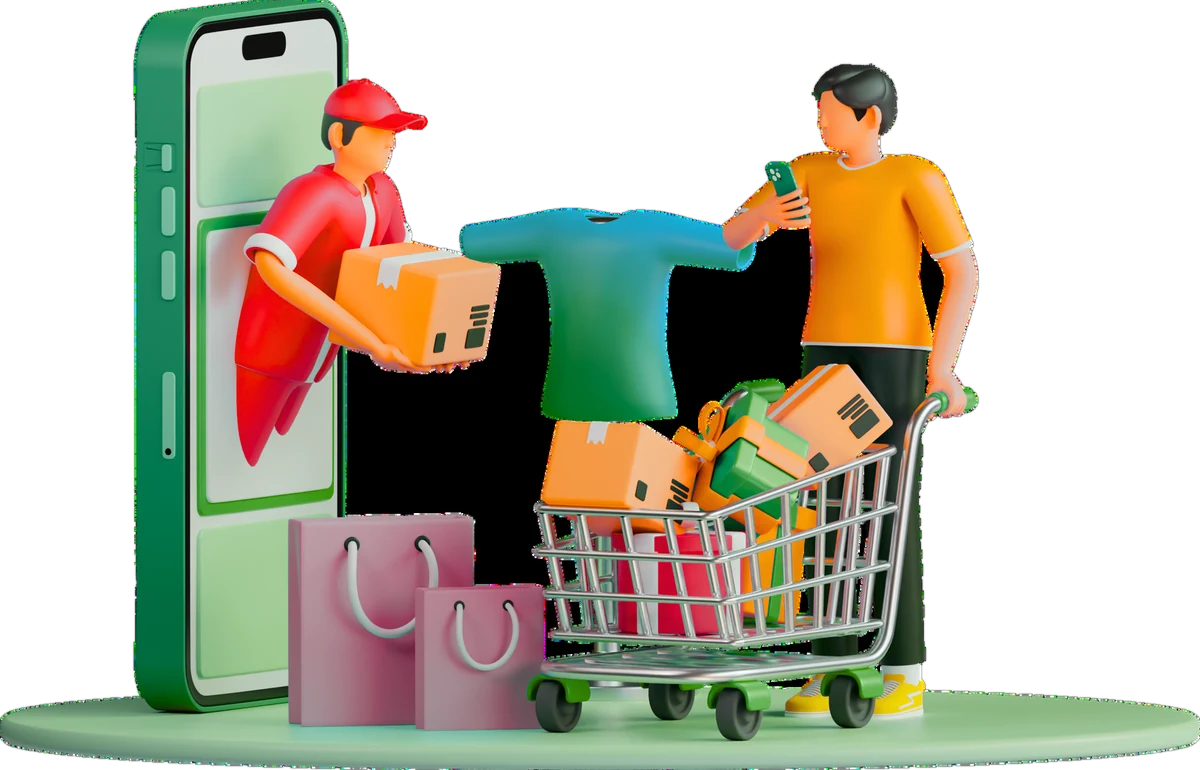
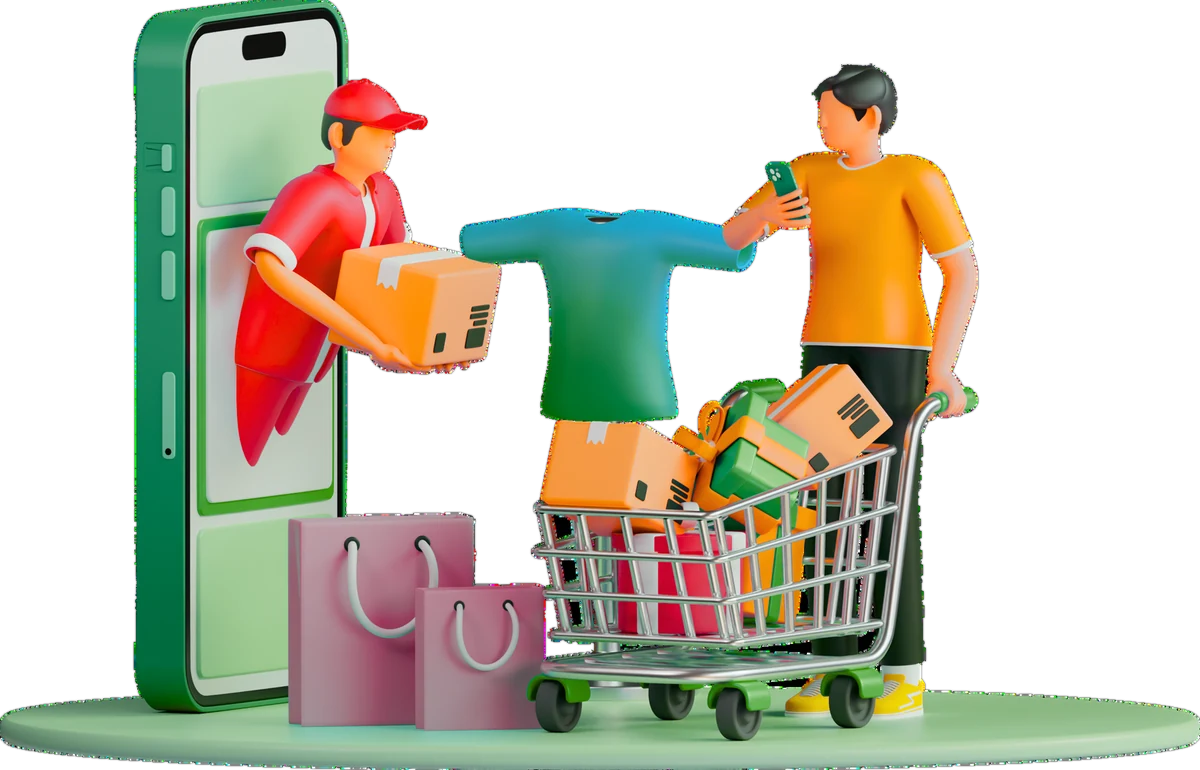
Task 140b: remove ENCLOSED black pockets the border flood-fill couldn't reach (behind t-shirt 38k px, between courier/shirt/bags 77k px, right of arm, under cart) — component pass keyed on pure-black uniformity (mean<5 std<8) vs shaded subject blacks (phone screen 18.8, cart shadows 28.0); webp 112K

diff --git a/scripts/t140-analyze-pocket.py b/scripts/t140-analyze-pocket.py
@@ -1,0 +1,37 @@
+#!/usr/bin/env python3
+"""Task 140b — find the ENCLOSED black background pocket that border
+flood-fill couldn't reach. Report connected components of dark pixels
+(lum<40) with area>1500: bbox, mean/std luminance -> distinguish true
+background pockets (uniform pure black) from subject blacks (trousers,
+phone bezel: gradient-shaded). Emit a debug tint image."""
+from PIL import Image
+import numpy as np
+from scipy import ndimage
+
+im = Image.open("/tmp/svg-embedded-1.png").convert("RGB")
+a = np.asarray(im).astype(np.float32)
+lum = 0.2126 * a[..., 0] + 0.7152 * a[..., 1] + 0.0722 * a[..., 2]
+dark = lum < 40
+lab, n = ndimage.label(dark)
+print(f"dark components: {n}")
+for i in range(1, n + 1):
+    mask = lab == i
+    area = int(mask.sum())
+    if area < 1500:
+        continue
+    ys, xs = np.where(mask)
+    l_mean = float(lum[mask].mean())
+    l_std = float(lum[mask].std())
+    p10 = float(np.percentile(lum[mask], 10))
+    p90 = float(np.percentile(lum[mask], 90))
+    print(f"comp {i}: area={area:7d} bbox=({xs.min()},{ys.min()})-({xs.max()},{ys.max()}) "
+          f"lum mean={l_mean:5.1f} std={l_std:5.1f} p10={p10:4.1f} p90={p90:4.1f}")
+
+# debug tint: components tinted red over dimmed original
+dbg = (a * 0.35).astype(np.uint8)
+for i in range(1, n + 1):
+    mask = lab == i
+    if mask.sum() >= 1500:
+        dbg[mask] = [255, 40, 40]
+Image.fromarray(dbg).save("/tmp/t140-debug-components.png")
+print("debug image: /tmp/t140-debug-components.png")

diff --git a/scripts/t140-hero-image.py b/scripts/t140-hero-image.py
@@ -51,6 +51,33 @@ while q:
             bg[ny * w + nx] = 1
             q.append((nx, ny))
 
+# --- 1b. ENCLOSED background pockets (Task 140b): border flood-fill can't
+# reach the black regions sealed between subjects (behind the t-shirt, under
+# the cart). Component analysis on prod screenshots showed a clean split:
+# pockets are PURE black (lum mean<5, std<8: 0.0-1.1 / 0.6-5.5), while
+# subject blacks are shaded (phone screen strips mean 18.8, notch 16.5,
+# cart shadows 28.0). Remove only large uniform pure-black components.
+import numpy as np
+from scipy import ndimage
+arr = np.asarray(im).astype(np.float32)
+lum_np = 0.2126 * arr[..., 0] + 0.7152 * arr[..., 1] + 0.0722 * arr[..., 2]
+lab, ncomp = ndimage.label(lum_np < 40)
+pockets = 0
+for i in range(1, ncomp + 1):
+    mask = lab == i
+    area = int(mask.sum())
+    if area < 1500:
+        continue
+    vals = lum_np[mask]
+    if vals.mean() < 5 and vals.std() < 8:
+        ys, xs = np.where(mask)
+        flat = mask.ravel()
+        for idx in np.where(flat)[0]:
+            bg[idx] = 1
+        pockets += 1
+        print(f"pocket removed: area={area} bbox=({xs.min()},{ys.min()})-({xs.max()},{ys.max()})")
+print(f"enclosed pockets removed: {pockets}")
+
 total = w * h
 nbg = sum(bg)
 print(f"background removed: {nbg}/{total} px ({100*nbg/total:.1f}%)")
